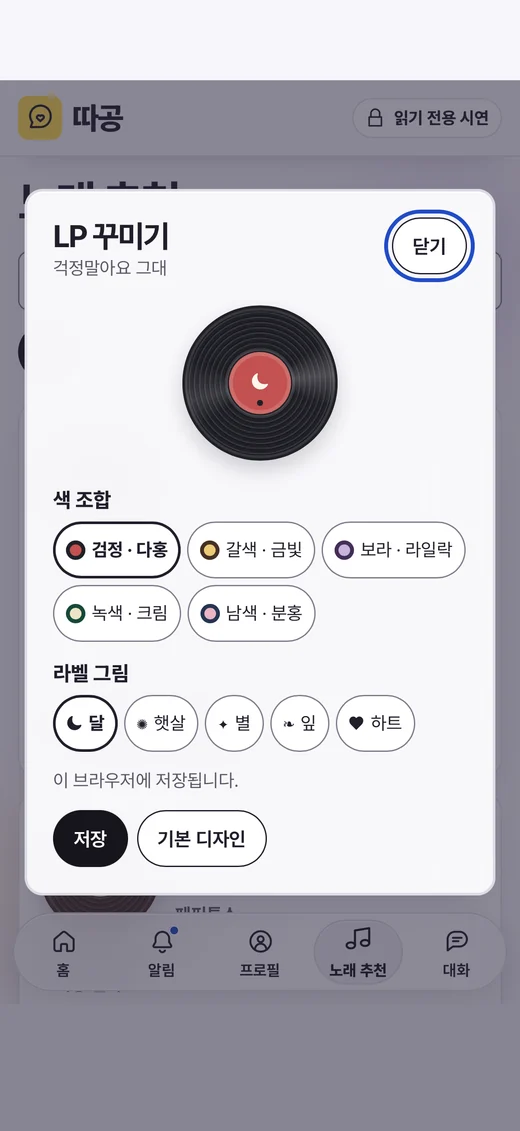
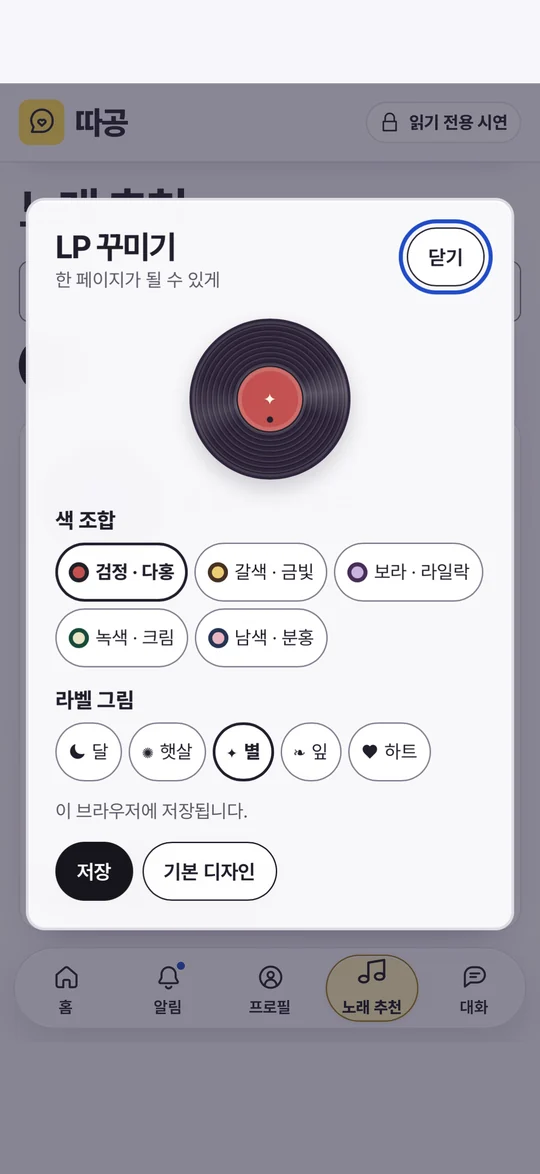
Tell Ttagong’s story and refresh the iPhone demo gallery

diff --git a/README.md b/README.md
@@ -1,54 +1,68 @@
 # 따공 · 우리 동네의 따뜻한 소식
 
-이웃이 건넨 작은 친절을 읽고, 온기지도에서 우리 동네 이야기를 찾아보세요. [로그인 없이 따공 둘러보기](https://daily-warming.vercel.app/)
+이웃이 건넨 작은 친절을 이야기로 남기고, 온기지도에서 우리 동네의 소식을 다시 찾아 읽는 곳입니다.
 
-노래를 들으며 따뜻한 이야기를 접한 날, 마음이 편안해지고 사람에게 정이 가는 기분이 들었습니다. 문득 세상에는 아무도 모르게 작은 친절을 실천하는 사람들이 많겠다는 생각이 들었습니다. 따공은 그 이야기를 나누고 싶어서 시작한 동네 소식 서비스입니다.
+[로그인 없이 따공 둘러보기](https://daily-warming.vercel.app/) · [1분 발표 대본](docs/pitch.md)
 
-**혼자 뿌듯함을 느끼지 말고 나누세요~**
+## 우산을 기울여 준 사람이 기억에 남는 날
 
-<img src="docs/images/quick-demo.gif" width="310" alt="따공의 홈 소식을 아래로 스크롤해 실제 행정 경계와 온기 수치를 확인하는 장면" />
+노래를 들으며 따뜻한 이야기를 접한 날, 마음이 편안해지고 사람들에게 정이 가는 기분이 들었습니다. 문득 우리가 매일 오가는 길에서도 누군가의 하루를 바꾼 작은 친절이 감사 인사 한마디와 함께 지나가겠다는 생각이 들었습니다. 그 장면들을 이웃과 나누고 싶어 따공을 만들었습니다.
+
+따공의 예시 이야기에서 지우는 비 오는 퇴근길에 이웃과 우산을 같이 씁니다. 정류장까지 짧은 거리였지만, 집에 와서도 그날의 인사가 생각나 글로 남깁니다. 소담은 그 글을 읽고 “저도 비 오는 날 우산을 조금 기울여 볼게요.”라고 답합니다. 이처럼 한 사람이 남긴 고마움이 다른 사람에게 내일 해 볼 일을 떠올리게 하길 바랍니다.
+
+> 혼자 뿌듯함을 느끼지 말고 나누세요~
+
+따공에선 고마웠던 일을 기록하고 응원과 선곡을 나눕니다. 포인트는 동네의 이야기 활동을 보여 주고, 배지는 내가 한 일을 돌아보게 해 줍니다. 금전 거래 기능은 없습니다.
+
+<img src="docs/images/quick-demo.gif" width="310" alt="따공 홈의 이야기 카드에서 행정구역 온기지도로 이동하는 iPhone 시연" />
+
+## 따공에서 만나는 이야기
+
+- **가까운 곳에서 무슨 일이 있었는지 읽어요.** 홈에서 최신·인기 소식을 최대 세 편씩 보고, 예시 응원 댓글을 읽을 수 있습니다. 온기지도에서 지역을 고르면 16개 시·도의 예시 이야기 94편을 지역마다 5~7편씩 읽을 수 있습니다. 지역 카드에는 다섯 가지 부드러운 색을 번갈아 씁니다. 관심 지역을 저장해 두면 홈과 프로필에서 그 지역 소식으로 바로 갈 수 있습니다.
+- **이야기 한 편이 동네에 온기 한 점을 더해요.** 로컬 시연에서 Codex의 게시 기준 심사를 통과한 이야기 한 편마다 해당 지역에 1P가 쌓입니다. 지도는 전남광주통합특별시를 포함한 실제 행정경계를 사용하며, 최근 7일의 포인트를 주민등록 인구 10만 명당으로 환산해 개나리색 농도로 보여 줍니다. 지역 화면에서 최근 포인트와 환산값을 함께 볼 수 있습니다. [행정안전부 주민등록 인구통계](https://jumin.mois.go.kr/statMonth.do)
+- **내가 남긴 글과 선곡을 한곳에서 다시 만나요.** 시연 프로필에서 작성한 이야기의 제목을 눌러 본문을 열고, 아래에서 **첫 이야기**, **이웃 기록가**, **다정한 독자**, **첫 선곡** 배지와 달성 조건을 볼 수 있습니다. 로컬에서 이야기에 좋아요를 누르거나 배지를 처음 달성하면 알림이 남습니다.
+- **오늘의 마음에 어울리는 노래를 찾아요.** 노래 추천에서 다섯 곡을 검색하고 이웃이 남긴 추천 이유를 읽습니다. 마음에 드는 곡은 공식 YouTube에서 들을 수 있습니다. 곡마다 LP의 색과 라벨 무늬를 꾸며 이 브라우저에 저장할 수 있습니다.
+
+## 처음 만나는 사람에게 보여 줄 세 장면
+
+1. **홈 → 우산 이야기.** 본문과 예시 응원 댓글을 이어서 읽습니다.
+2. **온기지도 → 우리 동네.** 지역을 눌러 이야기를 둘러보고, 다시 방문하고 싶다면 관심 지역으로 저장합니다.
+3. **프로필과 노래 추천.** 포개진 글 제목과 배지를 살펴보고, 이어서 오늘 듣고 싶은 노래 한 곡의 추천 이유를 읽습니다.
+
+우리 동네의 이야기가 궁금한 사람, 최근 받은 도움을 기억하고 싶은 사람과 시작합니다. 함께 읽고 싶은 이웃에게 마음에 남은 글의 제목과 따공 주소를 보내 보세요. [따공 주소](https://daily-warming.vercel.app/)
+
+| 홈 소식 | 행정구역 온기지도 |
+| --- | --- |
+| <img src="docs/images/home.webp" width="175" alt="최신·인기 소식을 볼 수 있는 따공 홈" /> | <img src="docs/images/admin-map.webp" width="175" alt="개나리색으로 지역 포인트를 보여 주는 실제 행정경계 지도" /> |
+| **지역 소식** | **내 이야기 카드** |
+| <img src="docs/images/region-stories.webp" width="175" alt="서울 소식과 여러 색의 이야기 카드" /> | <img src="docs/images/profile-wallet.webp" width="175" alt="제목만 보이는 내 이야기 세 편을 세로로 포갠 화면" /> |
+| **시연 프로필** | **프로필 하단 배지** |
+| <img src="docs/images/profile.webp" width="175" alt="빵을 든 캐릭터와 세 가지 활동 수치가 있는 시연 프로필" /> | <img src="docs/images/badges.webp" width="175" alt="프로필 아래의 배지 네 개와 각각의 달성 조건" /> |
+| **노래 추천** | **LP 꾸미기** |
+| <img src="docs/images/music.webp" width="175" alt="따공 노래 추천의 LP 카드와 검색" /> | <img src="docs/images/lp-editor.webp" width="175" alt="LP의 색과 라벨 무늬를 바꾸는 편집기" /> |
+| **예시 대화** | **로컬 게시 심사** |
+| <img src="docs/images/chat.webp" width="175" alt="골목 화분을 함께 정리한 이웃과의 예시 대화" /> | <img src="docs/images/moderation.webp" width="175" alt="로컬 Codex 게시 심사 결과와 적립 포인트" /> |
 
 *iPhone 17 Pro 시뮬레이터 Safari에서 촬영한 따공 시연.*
 
-| 바로가기 | 내용 |
-| --- | --- |
-| [로컬 실행](#로컬-실행) | Codex의 글·노래 추천 심사와 브라우저 저장 |
-| [상세 기획 보고서](docs/planning-report.md) | 개발 목적, 사용자 흐름, 검증 및 후속 실험 |
-| [1분 발표 대본](docs/pitch.md) · [SNS UX 비교](docs/social-ux-audit.md) | 발표 화면과 멘트 · 54개 서비스의 설계와 따공 적용 |
-| [행사 안내](https://luma.com/p8l79x8m) · [데이터와 에셋](NOTICE.md) | Codex Community Hackathon – Seoul · 지도, 사진과 글꼴 출처 |
+**공개 시연**의 예시 콘텐츠는 읽기 전용입니다. 관심 지역과 LP 디자인은 현재 브라우저에 저장할 수 있습니다. **로컬 시연**에서는 새 소식과 추천의 실제 Codex 게시 심사, 좋아요·배지 알림과 예시 대화 답장을 체험합니다. 승인된 글과 시연 활동은 현재 브라우저에 저장됩니다.
 
-## 우리가 함께 나누고 싶은 이야기
+## 첫 방문을 부르는 한 편
 
-퇴근길에 비가 내렸습니다. 지우는 우산 없이 정류장으로 걸었고, 옆 사람이 우산을 조금 기울여 주었습니다. 집에 돌아온 지우는 그날의 고마움을 글에 남겼습니다. 따공의 가상 시연에서 소담은 이 이야기에 “저도 비 오는 날 우산을 조금 기울여 볼게요.”라고 답합니다.
+지역 커뮤니티와 동아리에는 친절을 담은 예시 이야기 한 편과 따공 주소를 함께 소개할 계획입니다. 첫 방문에서는 자기 지역 글 한 편을 읽어 보게 하고, 다시 오고 싶은 독자는 관심 지역을 저장할 수 있게 했습니다.
 
-따공은 대가 없이 주고받은 도움을 동네 이야기로 남깁니다. 공개 시연에서 소식과 예시 응원 댓글을 읽고, 마음에 남은 행동을 내일 해 볼 수 있습니다.
+> 비 오는 날, 우산을 조금 기울여 준 사람을 기억하나요? 우리 동네에도 그런 이야기가 있어요.
 
-## 시연 동선
+## 이웃이 다음에도 돌아오는지 살펴봅니다
 
-홈에서 이야기를 열고, 아래의 온기 지도에서 그 일이 있었던 지역을 고릅니다. 하단의 **홈 · 알림 · 프로필 · 노래 추천 · 대화**로 화면을 전환할 수 있습니다.
+따공을 통해 평소 지나치던 도움을 다시 알아보고, 읽은 이야기를 떠올려 작은 행동 하나를 해 보는 사람이 생기기를 기대합니다. 첫 전국 파일럿에서는 지역 글을 처음 읽은 사람 중 **다음 날부터 7일 안에 같은 지역의 글을 다시 연 사람의 비율**을 봅니다.
 
-| 홈 소식 | 행정구역 온기 지도 |
-| --- | --- |
-| <img src="docs/images/home.webp" width="175" alt="따공 홈의 최신·인기 소식 카드" /> | <img src="docs/images/admin-map.webp" width="175" alt="실제 행정 경계를 표시하는 따공 온기 지도" /> |
-| **노래 추천** | **로컬 게시 심사** |
-| <img src="docs/images/music.webp" width="175" alt="따공 노래 추천의 LP 카드와 검색" /> | <img src="docs/images/moderation.webp" width="175" alt="로컬 Codex 게시 심사 결과 화면" /> |
-| **예시 대화** | **LP 꾸미기** |
-| <img src="docs/images/chat.webp" width="175" alt="동네 화분을 함께 정리한 이웃과의 예시 대화" /> | <img src="docs/images/lp-editor.webp" width="175" alt="LP 색과 라벨 무늬를 바꾸는 편집기" /> |
+그다음에는 감사·응원 댓글과 생활 정보·무료 나눔·대여를 연결하는 이웃 도움을 실험합니다. 요청을 올린 사람이 등록 후 7일 안에 도움 완료를 확인한 비율을 살펴보고, 양쪽이 동의한 경우에 감사 글을 남기는 흐름을 검증합니다. [상세 기획 보고서](docs/planning-report.md)
 
-| 화면에서 하는 일 | 결과 |
-| --- | --- |
-| 홈에서 **최신** 또는 **인기**를 고르고 카드를 엽니다. | 최대 세 장의 제목, 닉네임, 좋아요 수와 예시 대표 댓글을 보고 본문을 읽습니다. 인기는 최근 7일 좋아요순입니다. |
-| 홈을 내려 **행정구역 온기지도**에서 지역을 고릅니다. | 16개 시·도의 실제 행정경계 SVG에 개나리색 농도로 포인트를 표시합니다. 지역마다 서로 다른 예시 소식 다섯 편에서 일곱 편을 여러 색의 카드로 읽을 수 있습니다. |
-| 지역에서 **관심 지역 저장**을 선택합니다. | 홈과 프로필에서 저장한 지역 소식으로 바로 갈 수 있습니다. |
-| **노래 추천**에서 검색하고 **LP 꾸미기**를 엽니다. | 곡에 맞는 추천 이유를 읽고 공식 YouTube 재생 페이지를 엽니다. 음반과 라벨의 색 조합, 라벨 무늬를 곡별로 꾸밀 수 있습니다. |
-| **프로필**에서 포개진 내 이야기 카드의 제목을 누르거나 아래로 스크롤합니다. | 카드의 본문을 읽고, 화면 하단에서 배지 네 개와 달성 조건을 확인할 수 있습니다. |
-| 로컬에서 지역 글 또는 노래 추천 글의 심사를 요청합니다. | 승인한 소식을 저장할 때 해당 지역에 1P를 적립합니다. 승인한 노래 추천 글은 해당 LP 카드에 표시됩니다. |
+<details>
+<summary>개발자 참고 · 로컬 실행과 검증</summary>
 
-온기 지도는 최근 7일의 지역 포인트를 2026년 10월 말 주민등록인구 **10만 명당**으로 환산합니다. 게시한 첫 이야기부터 1P가 쌓이며, 지역 상세에서 적립 포인트와 환산값을 확인할 수 있습니다. 개나리색이 진할수록 환산값이 높습니다. [행정안전부 인구통계](https://jumin.mois.go.kr/statMonth.do) · [지도 출처](NOTICE.md)
-
-## 로컬 실행
-
-Node.js 22.18 이상과 npm, Codex CLI를 준비하고 ChatGPT에 로그인합니다.
+Node.js 22.18 이상, npm 및 ChatGPT에 로그인한 Codex CLI가 필요합니다.
 
 ```bash
 git clone https://github.com/Ryu-Jemu/Codex_Community_Hackathon.git
@@ -58,37 +72,15 @@ codex login status
 npm run dev
 ```
 
-1. [로컬 앱](http://127.0.0.1:5173)에서 **글쓰기**를 엽니다. 제목과 본문, 일이 있었던 광역 지역을 고른 뒤 **게시 심사 요청**을 누릅니다.
-2. 승인 예시는 “침수 뒤 이웃들이 가게 정리를 도와주셨어요. 정말 고맙습니다.”입니다. 차단 예시는 “우리 동네 사람들은 다 이기적이고 한심합니다.”입니다. 차단·보류·심사 실패 시 입력을 유지합니다.
-3. **노래 추천 → 추천 글 쓰기**에서 그 곡을 추천하는 이유를 500자 이내로 작성합니다. 승인이 완료되면 해당 카드에 글이 표시됩니다.
-4. 로컬에서 이야기의 **좋아요**를 누르면 알림에 기록됩니다. 처음 달성한 배지의 알림도 표시됩니다.
-5. **프로필 → 시연 데이터 초기화**로 이 브라우저에 저장된 시연 활동을 처음 상태로 되돌립니다.
-
-제목과 본문의 입력 한도는 각각 UTF-16 코드 단위 100개와 1,000개입니다. 심사에 지역 글의 제목·본문 또는 곡명·추천 이유를 Codex에 전달하므로 시연에는 합성 문장을 사용하세요. 심사는 콘텐츠의 게시 기준을 판단합니다.
-
-## 검증 환경과 시연 범위
-
-- **모바일 검증** · iPhone 17 Pro 시뮬레이터(iOS 26.5) Safari에서 홈 카드와 인기순 전환, 지도에서 지역 글 열기를 확인했습니다. 지역 글의 실제 Codex 승인·차단과 승인 글의 새로고침 후 유지, 노래 추천 글의 승인·카드 표시도 확인했습니다. [검증 기록](docs/planning-report.md#통합-검증-기록)
-- **공개 시연** · Vercel에서 예시 콘텐츠를 읽을 수 있습니다. 관심 지역과 LP 디자인은 현재 브라우저에 저장됩니다.
-- **로컬 시연** · 승인된 글과 추천, 좋아요, 배지, 알림과 예시 대화는 현재 브라우저에 저장합니다. 홈의 대표 댓글은 예시 콘텐츠입니다.
-- **시연 계정** · 내 이야기 세 편, 알림 네 건, 노래 추천 두 편을 준비했습니다. 예시 대화 여섯 개에서 시작해 로컬에서 한 개를 더 보낼 수 있습니다.
-
-## 기대 효과와 후속 실험
-
-흩어져 있던 도움을 동네에서 다시 발견하고, 읽은 이야기가 내일 실천할 작은 행동으로 이어지는 것을 기대합니다. 전국 파일럿에서는 처음 지역 글을 읽은 참여자 중 다음 날부터 7일 안에 같은 지역 글을 다시 연 비율을 봅니다. 감사·응원 댓글, 생활 정보와 무료 나눔·대여를 연결하는 이웃 도움은 그다음 실험입니다. 요청자가 완료를 확인하고 양쪽이 동의하면 감사 글을 공개합니다. 완료 확인에 걸린 시간과 7일 안에 완료된 요청 비율을 살핍니다.
-
-도움 연결을 도입하면 요청자가 완료를 확인한 활동을 별도로 기록하는 방안을 실험합니다. 누구나 같은 조건으로 도움을 요청할 수 있습니다.
-
-## 개발자 참고
+[로컬 앱](http://127.0.0.1:5173)에서 **글쓰기 → 게시 심사 요청**으로 소식을 제출하거나 **노래 추천 → 추천 글 쓰기**로 선곡 이유를 남깁니다. 시연에는 합성 문장을 사용하세요. 심사 시 소식의 제목·본문 또는 곡명·추천 이유가 Codex에 전달됩니다. **프로필 → 시연 데이터 초기화**로 브라우저의 시연 활동을 되돌릴 수 있습니다.
 
 ```bash
 npm run check
 npm test
 npm run build
 python3 scripts/krmap-tiles.py --check
-npm run preview
 ```
 
-React 19, TypeScript, Vite로 만든 `daily_warming`은 Vercel에서 `npm run build`를 실행해 `dist/`를 배포합니다. 실제 Codex 심사는 `npm run dev`의 로컬 브리지에서 실행합니다.
+React 19, TypeScript, Vite 기반입니다. Vercel은 `npm run build`의 `dist/`를 배포하며, Codex 심사는 개발 서버에서 실행합니다. [통합 검증 기록](docs/planning-report.md#통합-검증-기록) · [54개 SNS UI·UX 비교](docs/social-ux-audit.md) · [지도·이미지·글꼴 출처](NOTICE.md) · [행사 안내](https://luma.com/p8l79x8m)
 
-상단 바와 하단 탭에 반투명 유리 효과를 적용했습니다. 글과 지도는 더 불투명한 바탕에서 읽을 수 있고, 투명도 줄이기와 고대비 설정도 지원합니다. 책방과 시연 카드 사진은 생성 이미지이며, 글꼴은 Pretendard Variable 1.3.9입니다. [Apple 소재 지침](https://developer.apple.com/design/human-interface-guidelines/materials) · [에셋과 라이선스](NOTICE.md)
+</details>

diff --git a/docs/planning-report.md b/docs/planning-report.md
@@ -110,6 +110,7 @@
 - 따공 후보 `236c3c5`의 iPhone 17 Pro 시뮬레이터 Safari에서 실제 Codex 승인과 차단을 확인했다. 승인된 글이 한 번 저장되어 서울 수치가 0.03에서 0.04로 바뀌었으며, 차단 뒤에는 입력과 피드·지도가 유지됐다.
 - 공개 후보 `3ff2fbc`는 iPhone 17 Pro Safari에서 홈 아래의 16개 행정경계, 격자 전환, 서울 소식 이동, 다섯 탭, 노래 검색과 외부 재생 링크를 재검증했다. 로컬에서는 실제 Codex 승인·차단, 승인 후 서울 수치 0.03→0.04, 노래 추천 글 승인·카드 반영을 확인했다. 독립 Chrome 검사에서 320px와 글자 200%의 가로 넘침이 없었고, 지도 이름과 숫자를 직접 눌러 대응 지역으로 이동했다.
 - 운영 후보 `64281ba`는 iPhone 17 Pro Safari에서 개나리색 행정경계 SVG, 다섯 탭, LP 꾸미기 미리보기와 브라우저 저장, 시연 프로필 글 세 편, 알림 네 건, 읽기 전용 예시 대화 여섯 개를 확인했다. 로컬에서는 대화가 일곱 개에서 멈췄고, 실제 Codex 승인 후 서울 적립값이 3P에서 4P로, 인구 보정값이 0.03에서 0.04로 바뀌었다. 차단된 소식은 입력을 유지했고 지도에 반영되지 않았다. 익명 접속 파일 13개가 운영 빌드와 일치했고, 독립 Chrome 검사에서 320px·글자 200% 확대, 키보드 이동, LP 꾸미기 설정의 새로고침 후 유지, 동작과 투명도 감소를 검증했다.
+- 운영본 `fa5834b`를 iPhone 17 Pro 시뮬레이터와 독립 Chrome 검사로 다시 확인했다. Safari에서 16개 시·도에 예시 이야기 94편, 지역마다 5~7편이 표시됐고, 현재 탭 강조가 다섯 탭을 따라갔다. 로컬에서 실제 Codex 승인과 차단을 다시 실행했다. 승인 글은 한 번 반영돼 서울이 3P에서 4P로 바뀌었고, 차단 글의 입력은 유지됐다. 실제 공개 URL에서 내려받은 파일 14개의 SHA-256이 운영 빌드와 일치했으며 공개 심사 경로는 404였다. 자동 테스트 12개와 지도 원본 확인도 통과했다.
 
 ## 후속 제품 실험 제안
 
